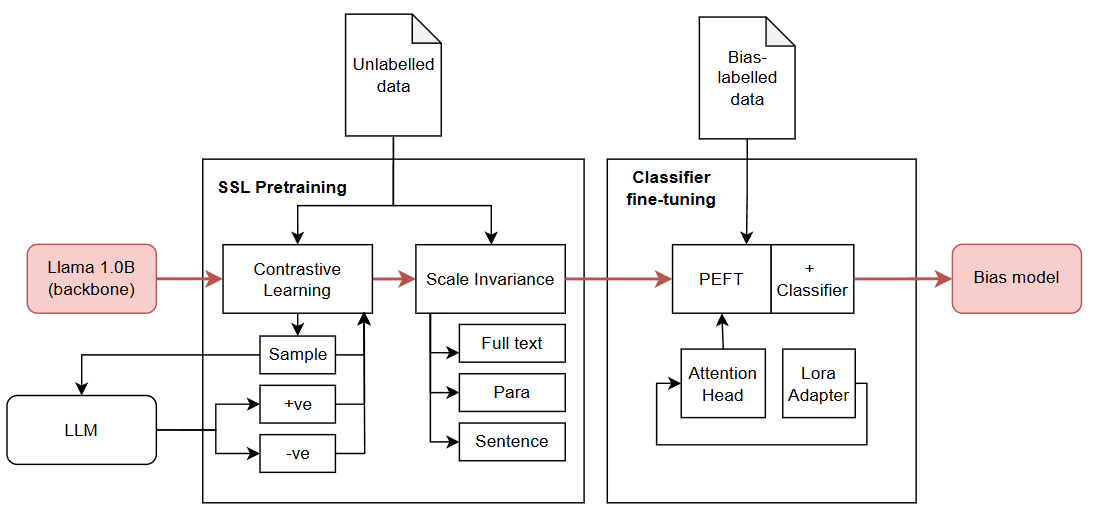
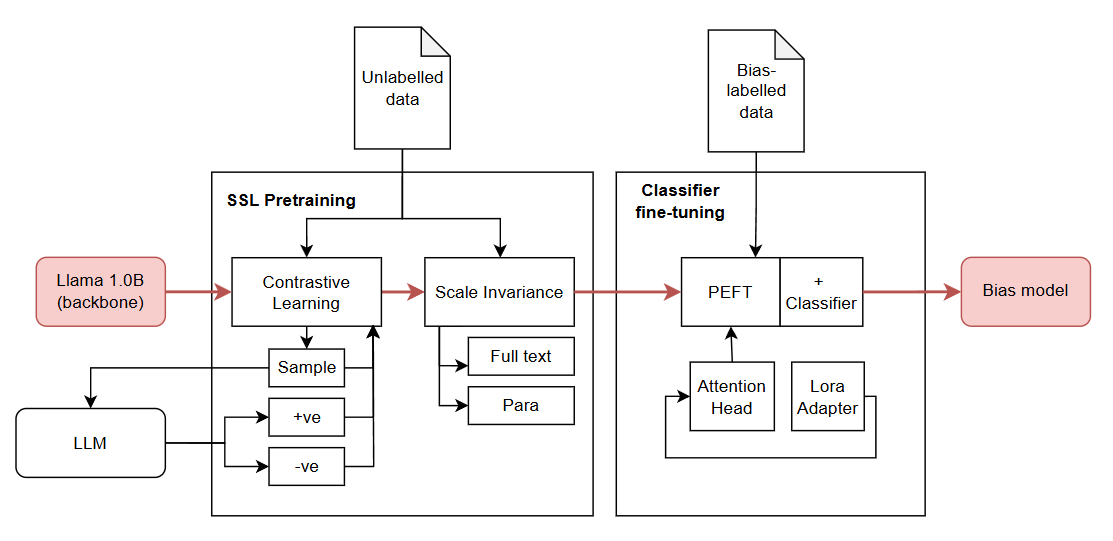
readme

diff --git a/README.md b/README.md
@@ -1,1 +1,47 @@
-# NTU-DLWeek2025
+# NTU-DLWeek2025 - High-Lie-ter 📰
+
+## Overview
+In today's digital landscape, misinformation and bias pose significant threats to media integrity. Our goal during this hackathon was to **develop AI-powered solutions that uphold media integrity and foster trust in digital content.**
+
+To tackle this, Team Perchance built **High-Lie-ter**, a web extension that helps users assess online content for bias and misinformation. Our approach includes leveraging **Self-Supervised Learning (SSL)** to enable our model to develop an inherent understanding of multiple dimensions in text—allowing for more adaptable and reliable analysis across different contexts.
+
+---
+
+## How It Works ⚙
+High-Lie-ter provides users with a way to analyze selected portions of web content through a two-step AI pipeline:
+
+1. **Bias Classification:**
+   - Pre-trained a **LLaMA 1.0B** backbone using **contrastive learning** by generating augmented texts (more/less biased versions) via an LLM. This ensures the model understands bias without inheriting another model’s potential biases.
+   - Incorporated **scale invariance**, training on words, sentences, and paragraphs separately to enhance multi-scale bias detection.
+   - Fine-tuned using **PEFT and LoRA adapters** on pseudo-labeled datasets to refine predictions.
+   - Outputs a confidence score on how biased the text may be.
+
+2. **Misinformation Detection:**
+   - Extracts **keywords and phrases** from the text.
+   - Runs a **filtered Google Search API** query to find related articles.
+   - Embeds retrieved articles and compares them against the original content using **FAISS** to determine a misinformation score.
+
+The extension then **highlights** the analyzed text in different colors to indicate levels of bias and misinformation.
+
+---
+
+## Tech Stack 🔧
+
+### Frontend:
+- **HTML, JavaScript, CSS** (Web Extension UI)
+
+### Backend:
+- **Bias Classification Model** (Self-Supervised Learning + PEFT Fine-tuning)
+- **Misinformation Pipeline** (Keyword Extraction + Google Search API + FAISS Vector Comparison)
+
+### Storage:
+- **FAISS Vector Store** (For embedding similarity comparison)
+
+### APIs:
+- **Google Search API** (For retrieving comparative articles)
+
+---
+
+## Architecture
+![Architecture](static/overview.png "Architecture")
+![Architecture](static/bias_model.png "Architecture")
